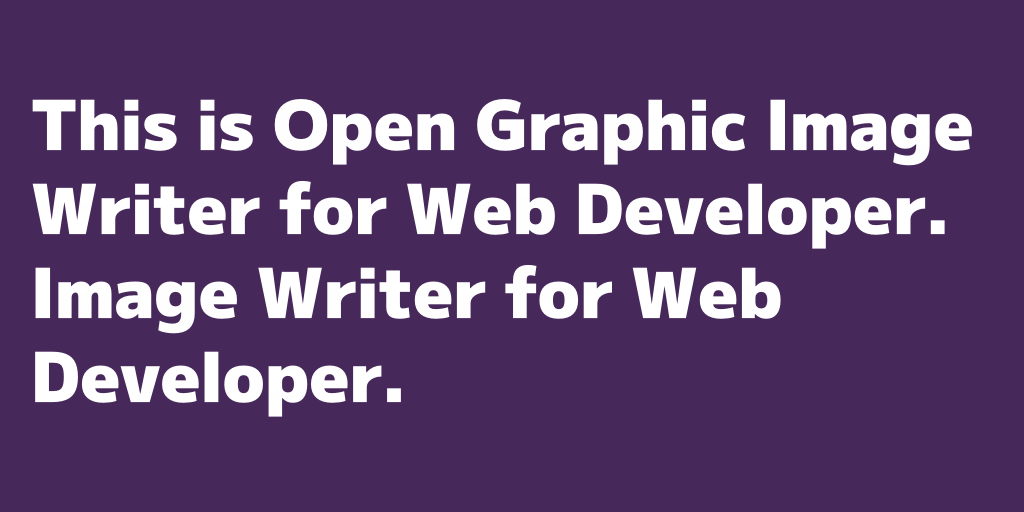
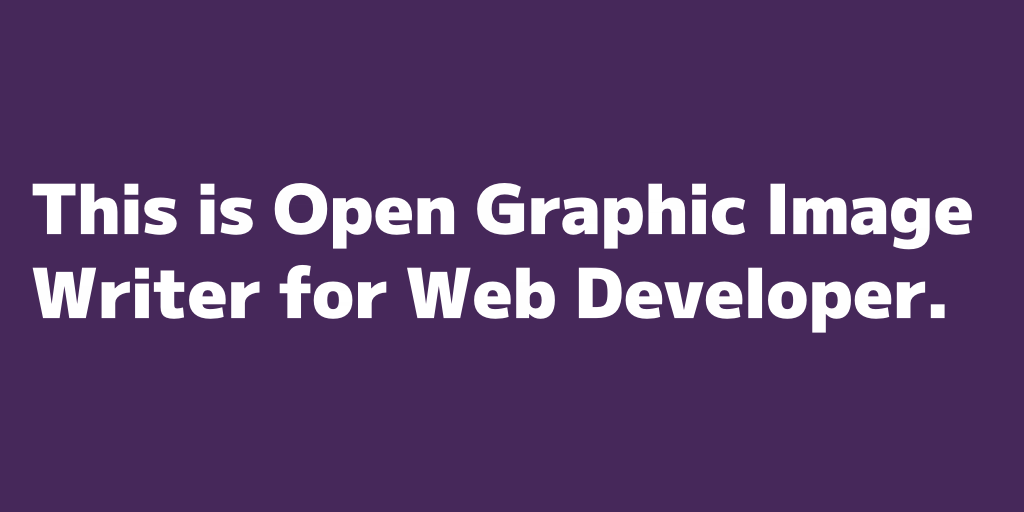
example: fix example

diff --git a/examples/background_color.rs b/examples/background_color.rs
@@ -3,7 +3,7 @@ use std::{io, path::Path};
 
 fn main() -> io::Result<()> {
     let text =
-        "This is Open Graphic Image Writer for Web Developer. Image Writer for Web Developer.";
+        "This is Open Graphic Image Writer for Web Developer.";
 
     let mut writer = OGImageWriter::new(style::WindowStyle {
         width: 1024,
